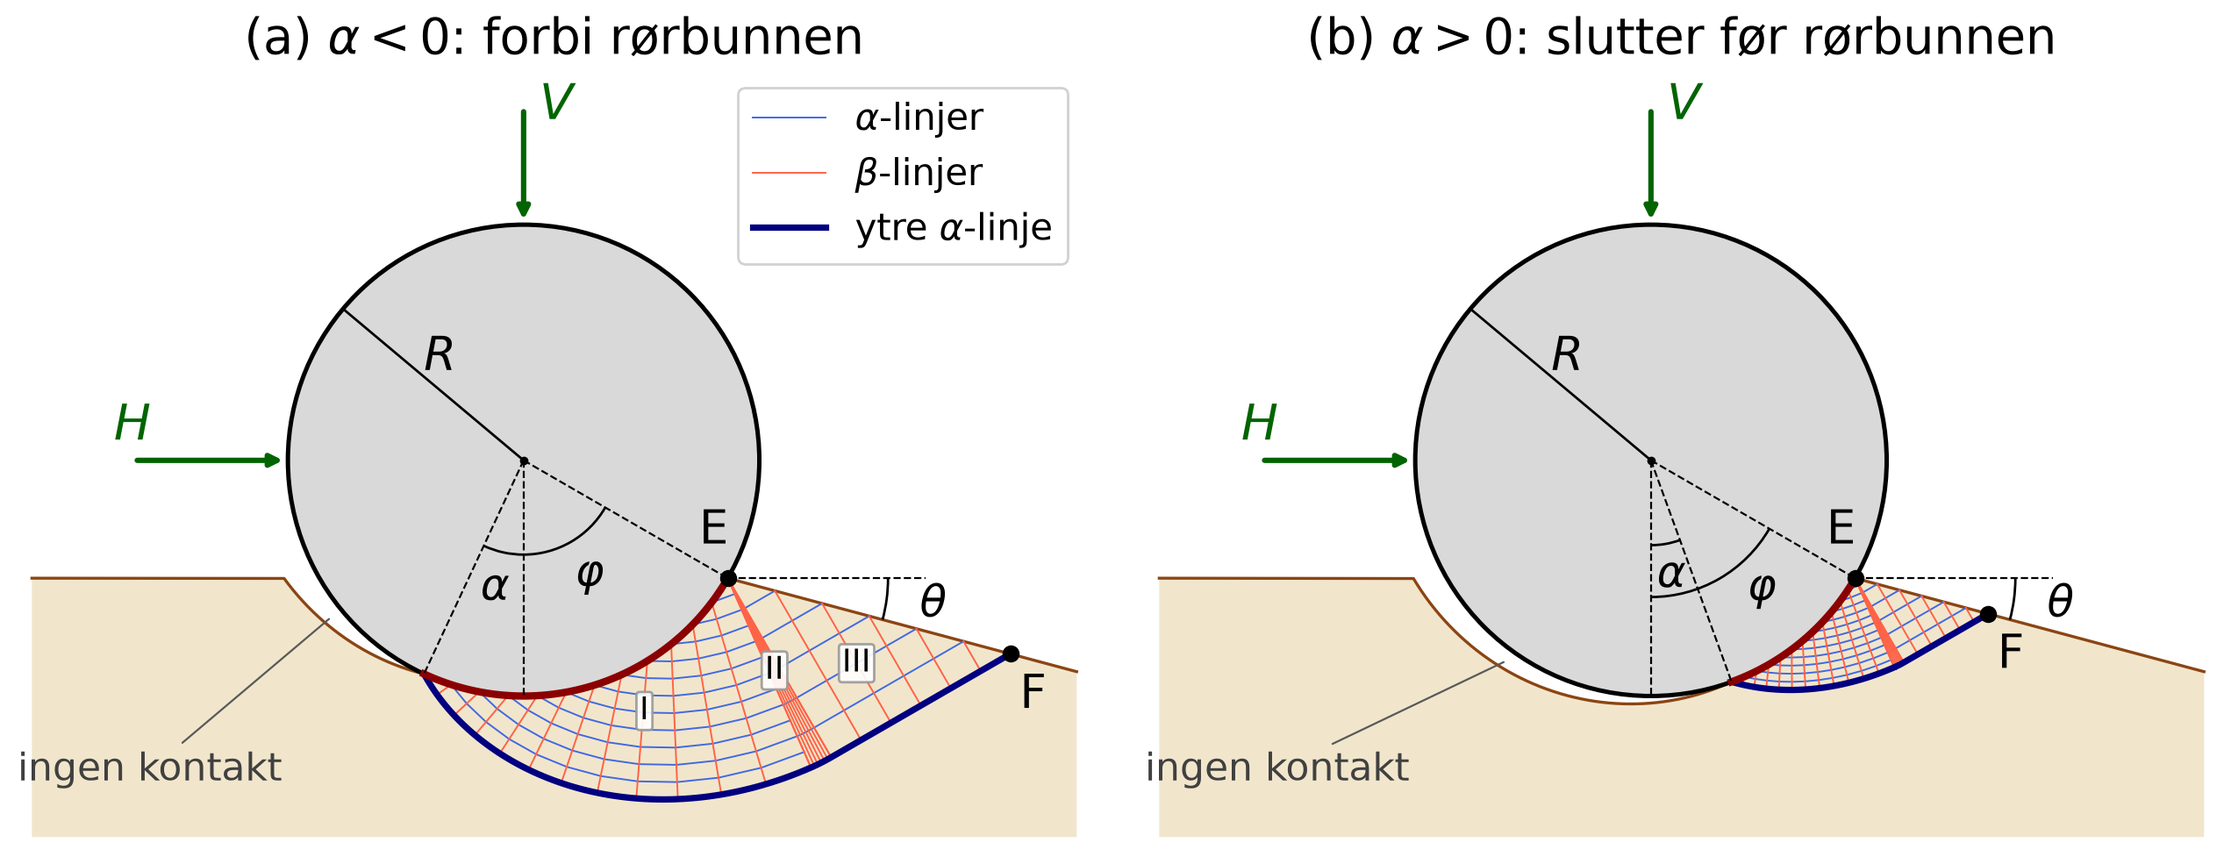
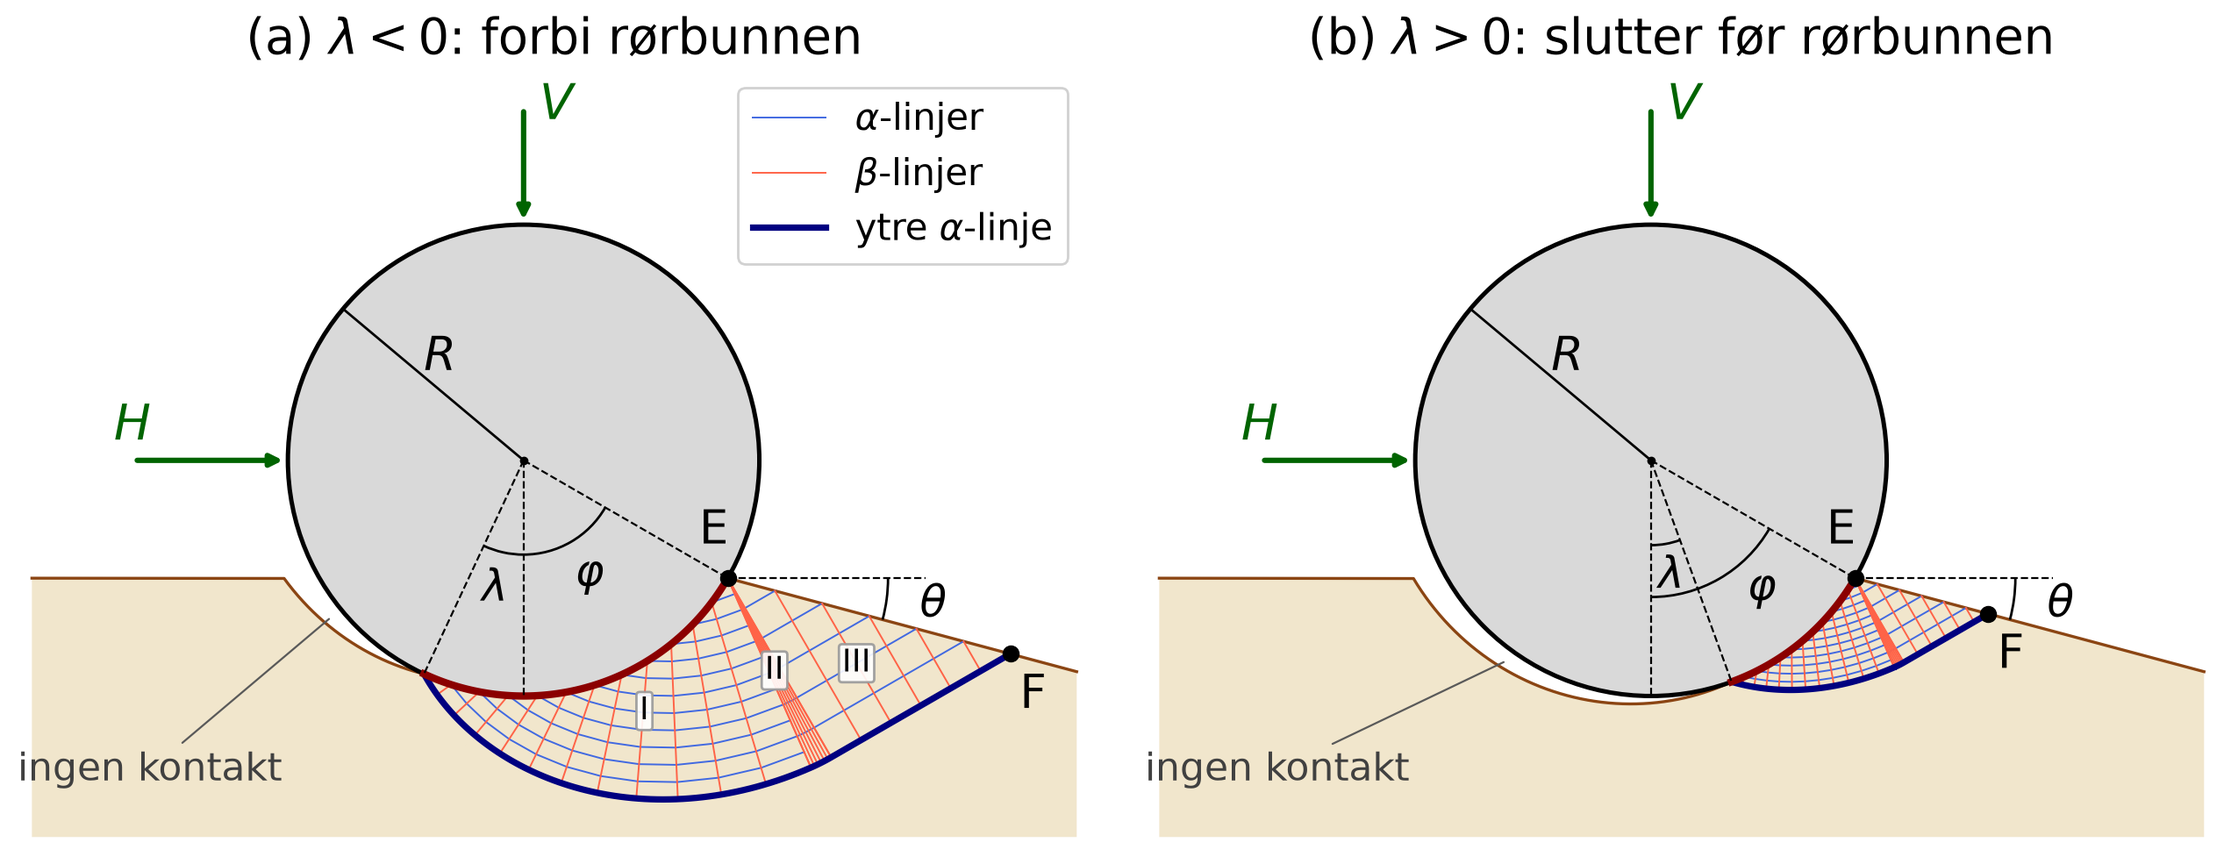
Rename the contact start angle to lambda and the direction to delta
alpha (start of the contact) and beta (direction of motion) clashed with
the alpha- and beta-lines in pipe_formulas.  psi is the principal stress
direction, so the contact now runs from lambda to phi, and the pipe moves
at delta below the horizontal (beta in the code).

Claude-Session: https://claude.ai/code/session_01Kw9TXmZH48LHARAYP96LAX

diff --git a/pipe_formulas.tex b/pipe_formulas.tex
@@ -185,40 +185,39 @@ $\theta = 30^\circ$), og bare \eqref{eq:H}--\eqref{eq:V} er i bruk.  For ru
 rør gjelder formlene alltid når $\theta \le \omega$, ellers for
 $P/R \le 1 - \sin(\theta - \omega)$.
 
-\subsection*{Kontakt fra $\alpha$ til $\varphi$}
+\subsection*{Kontakt fra $\lambda$ til $\varphi$}
 
 \begin{figure}[htb]
   \centering
   \includegraphics[width=\textwidth]{pipe_contact.png}
-  \caption{Sideveis skyv med kontakt fra $\alpha$ til $\varphi$, ved
-    $P/R = 0{,}5$, $r = 0{,}3$ og $\theta = 15^\circ$.  $\alpha$ og
+  \caption{Sideveis skyv med kontakt fra $\lambda$ til $\varphi$, ved
+    $P/R = 0{,}5$, $r = 0{,}3$ og $\theta = 15^\circ$.  $\lambda$ og
     $\varphi$ måles fra loddlinja gjennom rørbunnen og er positive mot
-    kontaktkanten E.  (a) $\alpha = -25^\circ$: kontakten går forbi
-    rørbunnen.  (b) $\alpha = 20^\circ$: kontakten slutter før rørbunnen,
+    kontaktkanten E.  (a) $\lambda = -25^\circ$: kontakten går forbi
+    rørbunnen.  (b) $\lambda = 20^\circ$: kontakten slutter før rørbunnen,
     med sone~I--III som i (a).  Kontaktbuen er tegnet med tykk rød strek, og
     nettet er fra \texttt{OneSidedDiskSolver} med
-    \texttt{phi\_start} $= \alpha$.  Den tykke blå linja er den ytre
+    \texttt{phi\_start} $= \lambda$.  Den tykke blå linja er den ytre
     $\alpha$-linja beregnet med formlene i avsnitt~\ref{sec:extent}.  Den
-    starter i $t = \alpha$ og møter overflaten i F, i avstanden $L$ fra E
-    \eqref{eq:Lalpha}.  Figuren lages av \texttt{plot\_pipe\_contact.py}.}
+    starter i $t = \lambda$ og møter overflaten i F, i avstanden $L$ fra E
+    \eqref{eq:Llambda}.  Figuren lages av \texttt{plot\_pipe\_contact.py}.}
   \label{fig:contact}
 \end{figure}
 
 Formlene over integrerer fra rørbunnen ($t = 0$) til kontaktkanten.  Beveger
 røret seg også nedover, går kontakten forbi rørbunnen og inn på baksiden.
 Løsner jorda tidligere, slutter kontakten før rørbunnen.  Kontaktbuen er da
-$\alpha \le t \le \varphi$, der $\alpha < 0$ ligger bak rørbunnen
-(figur~\ref{fig:contact}).  ($\alpha$ er her en vinkel og har ikke noe med
-$\alpha$-linjene å gjøre.)  Den ytre
-$\alpha$-linja starter i $t = \alpha$, og ellers er feltet det samme:
-$\sigma_n(t)$ i \eqref{eq:contact} avhenger bare av $t$, ikke av $\alpha$
+$\lambda \le t \le \varphi$, der $\lambda < 0$ ligger bak rørbunnen
+(figur~\ref{fig:contact}).  Den ytre
+$\alpha$-linja starter i $t = \lambda$, og ellers er feltet det samme:
+$\sigma_n(t)$ i \eqref{eq:contact} avhenger bare av $t$, ikke av $\lambda$
 eller $\varphi$.  Kreftene er derfor
 \begin{align}
-  H &= R\int_\alpha^{\varphi} \bigl(\sigma_n \sin t + \tau\cos t\bigr)\,dt
-     = H(\varphi) - H(\alpha) ,
-  \label{eq:HValpha}\\
-  V &= R\int_\alpha^{\varphi} \bigl(\sigma_n \cos t - \tau\sin t\bigr)\,dt
-     = V(\varphi) - V(\alpha) ,
+  H &= R\int_\lambda^{\varphi} \bigl(\sigma_n \sin t + \tau\cos t\bigr)\,dt
+     = H(\varphi) - H(\lambda) ,
+  \label{eq:HVlambda}\\
+  V &= R\int_\lambda^{\varphi} \bigl(\sigma_n \cos t - \tau\sin t\bigr)\,dt
+     = V(\varphi) - V(\lambda) ,
 \end{align}
 der $H(x)$ og $V(x)$ er formlene for kontakt fra 0 til $x$:
 \eqref{eq:H}--\eqref{eq:V}, eller \eqref{eq:Hpar}--\eqref{eq:Vpar} når
@@ -229,38 +228,38 @@ Utskrevet, med $A = 1 + \pi - 2\omega - 2\theta + \cos 2\omega$, slik at
 $\sigma_n = c\,(A - 2t)$ på den indre buen, blir det uten parallellsone,
 $\varphi \le t_0$,
 \begin{align}
-  \frac{H}{cR} &= A(\cos\alpha - \cos\varphi) + 2\varphi\cos\varphi - 2\alpha\cos\alpha
-                  - (2 - \sin 2\omega)(\sin\varphi - \sin\alpha) ,
-  \label{eq:Halpha}\\[4pt]
-  \frac{V}{cR} &= (A - 2\varphi)\sin\varphi - (A - 2\alpha)\sin\alpha
-                  + (2 - \sin 2\omega)(\cos\alpha - \cos\varphi) ,
-  \label{eq:Valpha}
+  \frac{H}{cR} &= A(\cos\lambda - \cos\varphi) + 2\varphi\cos\varphi - 2\lambda\cos\lambda
+                  - (2 - \sin 2\omega)(\sin\varphi - \sin\lambda) ,
+  \label{eq:Hlambda}\\[4pt]
+  \frac{V}{cR} &= (A - 2\varphi)\sin\varphi - (A - 2\lambda)\sin\lambda
+                  + (2 - \sin 2\omega)(\cos\lambda - \cos\varphi) ,
+  \label{eq:Vlambda}
 \end{align}
 og med parallellsone, $\varphi > t_0$,
 \begin{align}
-  \frac{H}{cR} &= (A - 2\alpha)\cos\alpha + (2 - \sin 2\omega)\sin\alpha \nonumber\\
+  \frac{H}{cR} &= (A - 2\lambda)\cos\lambda + (2 - \sin 2\omega)\sin\lambda \nonumber\\
                &\quad + 2(\sin\omega - \cos\omega)(\sin\theta + \cos\theta)
                   - 2\cos\theta\cos(\varphi+\theta) ,
-  \label{eq:Hparalpha}\\[4pt]
-  \frac{V}{cR} &= (2 - \sin 2\omega)\cos\alpha - (A - 2\alpha)\sin\alpha \nonumber\\
+  \label{eq:Hparlambda}\\[4pt]
+  \frac{V}{cR} &= (2 - \sin 2\omega)\cos\lambda - (A - 2\lambda)\sin\lambda \nonumber\\
                &\quad + 2(\cos\omega - \sin\omega)(\cos\theta - \sin\theta)
                   - 2\sin\theta\cos(\varphi+\theta) .
-  \label{eq:Vparalpha}
+  \label{eq:Vparlambda}
 \end{align}
-Med $\alpha = 0$ gir de \eqref{eq:H}--\eqref{eq:V} og
+Med $\lambda = 0$ gir de \eqref{eq:H}--\eqref{eq:V} og
 \eqref{eq:Hpar}--\eqref{eq:Vpar}.
 
-Formlene gjelder for $-\varphi \le \alpha < \min(\varphi, t_0)$ og, som før,
+Formlene gjelder for $-\varphi \le \lambda < \min(\varphi, t_0)$ og, som før,
 $\varphi \le \pi/2 + \omega - \theta$:
 \begin{itemize}
-  \item $\alpha \ge -\varphi$ fordi kontakten ikke kan gå over overflaten
+  \item $\lambda \ge -\varphi$ fordi kontakten ikke kan gå over overflaten
         bak røret, når den ligger på kontaktnivået;
-  \item $\alpha < t_0$ fordi kontakten må begynne før parallellsonen.  Ellers
+  \item $\lambda < t_0$ fordi kontakten må begynne før parallellsonen.  Ellers
         er det ingen vifte, og koden gir feilmelding.
 \end{itemize}
 
 Kontroll: et glatt rør med $\theta = 0$ og kontakt på begge sider,
-$\alpha = -\varphi$, gir
+$\lambda = -\varphi$, gir
 \begin{equation}
   V = 2(2 + \pi)\,cR\sin\varphi , \qquad
   H = -4cR\,(\sin\varphi - \varphi\cos\varphi) .
@@ -348,23 +347,23 @@ den.  Målt fra E langs overflaten blir
 Ved $\varphi = t_0$ gir \eqref{eq:Lpar} det samme som \eqref{eq:L}.  Her
 øker $L$ med $\theta$, fordi parallellsonen begynner tidligere.
 
-\subsection*{Kontakt fra $\alpha$ til $\varphi$, (a)}
+\subsection*{Kontakt fra $\lambda$ til $\varphi$, (a)}
 
-Den ytre $\alpha$-linja starter i $t = \alpha$ i stedet for i rørbunnen.
-Argumentet over er det samme, men med buen fra $\alpha$: $\beta$-linja fra E
-har lengden $\ell = R(\varphi - \alpha)\sin\kappa$, og
+Den ytre $\alpha$-linja starter i $t = \lambda$ i stedet for i rørbunnen.
+Argumentet over er det samme, men med buen fra $\lambda$: $\beta$-linja fra E
+har lengden $\ell = R(\varphi - \lambda)\sin\kappa$, og
 \begin{align}
-  \frac{L}{R} &= (\varphi - \alpha)\sqrt{1 - r} ,
+  \frac{L}{R} &= (\varphi - \lambda)\sqrt{1 - r} ,
   && \varphi \le t_0 ,
-  \label{eq:Lalpha}\\[4pt]
-  \frac{L}{R} &= (t_0 - \alpha)\sqrt{1 - r} + \sqrt{1 + r}
+  \label{eq:Llambda}\\[4pt]
+  \frac{L}{R} &= (t_0 - \lambda)\sqrt{1 - r} + \sqrt{1 + r}
                  - \cos(\varphi + \theta) - \sin(\varphi + \theta) ,
   && \varphi > t_0 .
-  \label{eq:Lparalpha}
+  \label{eq:Lparlambda}
 \end{align}
-Parallellsonen er den samme; bare den indre delen av buen, fra $\alpha$ til
+Parallellsonen er den samme; bare den indre delen av buen, fra $\lambda$ til
 $t_0$, endres.  For glatt rør er $L$ fortsatt like lang som kontaktbuen,
-$R(\varphi - \alpha)$.
+$R(\varphi - \lambda)$.
 
 \subsection*{Horisontal avstand}
 
@@ -470,37 +469,37 @@ $t = t_0\bigl(1 - (s - s_0)/(L - s_0)\bigr)$ og $L$ fra \eqref{eq:Lpar}.
 Ved $t_0$ er $\sin(t_0 + \theta) - \cos(t_0 + \theta) = \sqrt{1 - r}$, så
 farten er kontinuerlig.
 
-\subsection*{Kontakt fra $\alpha$ til $\varphi$, (a)}
+\subsection*{Kontakt fra $\lambda$ til $\varphi$, (a)}
 
-Med kontakt fra $\alpha$ svarer F til rørpunktet $t = \alpha$ i stedet for
+Med kontakt fra $\lambda$ svarer F til rørpunktet $t = \lambda$ i stedet for
 rørbunnen.  Uten parallellsone er
 \begin{equation}
   v_n(s) = v_t(s) = \frac{w(t)}{\sqrt{1 - r}} ,
-  \qquad t = \varphi - (\varphi - \alpha)\,\frac{s}{L} ,
+  \qquad t = \varphi - (\varphi - \lambda)\,\frac{s}{L} ,
   \qquad 0 \le s \le L ,
-  \label{eq:valpha}
+  \label{eq:vlambda}
 \end{equation}
-med $L$ fra \eqref{eq:Lalpha}.  Med parallellsone gjelder
+med $L$ fra \eqref{eq:Llambda}.  Med parallellsone gjelder
 \eqref{eq:vpar}--\eqref{eq:spar} uendret for $0 \le s \le s_0$.  Lenger ut
-gjelder \eqref{eq:valpha} med $t = t_0 - (t_0 - \alpha)(s - s_0)/(L - s_0)$
-og $L$ fra \eqref{eq:Lparalpha}.  Volumet er
-$\int_0^L v_n\,ds = R\int_\alpha^\varphi w\,dt$.
+gjelder \eqref{eq:vlambda} med $t = t_0 - (t_0 - \lambda)(s - s_0)/(L - s_0)$
+og $L$ fra \eqref{eq:Lparlambda}.  Volumet er
+$\int_0^L v_n\,ds = R\int_\lambda^\varphi w\,dt$.
 
-Kontakt bak rørbunnen ($\alpha < 0$) krever at røret også beveger seg
+Kontakt bak rørbunnen ($\lambda < 0$) krever at røret også beveger seg
 nedover.  Ved rent sideveis skyv er $w = v_0\sin t < 0$ for $t < 0$, og der
-flytter røret seg bort fra jorda.  Beveger røret seg med vinkelen $\beta$
+flytter røret seg bort fra jorda.  Beveger røret seg med vinkelen $\delta$
 under horisontalen, er
 \begin{equation}
-  w(t) = v_0 \sin(t + \beta) ,
+  w(t) = v_0 \sin(t + \delta) ,
 \end{equation}
-som gir (a) for $\beta = 0$ og (b) for $\beta = \pi/2$.  Da er $w \ge 0$ for
-$t \ge -\beta$, så kontakten krever $\alpha \ge -\beta$.
+som gir (a) for $\delta = 0$ og (b) for $\delta = \pi/2$.  Da er $w \ge 0$ for
+$t \ge -\delta$, så kontakten krever $\lambda \ge -\delta$.
 \begin{itemize}
-  \item Med $\alpha = -\beta$ løsner jorda akkurat i det bakre
+  \item Med $\lambda = -\delta$ løsner jorda akkurat i det bakre
         kontaktpunktet, og farten avtar til null ved F, som for
-        $\alpha = 0$ i (a).  \texttt{PipeLateral} bruker $\alpha = -\beta$
+        $\lambda = 0$ i (a).  \texttt{PipeLateral} bruker $\lambda = -\delta$
         når kontakten bak røret rekker så langt.
-  \item Med $\alpha > -\beta$ er farten $v_0\sin(\alpha + \beta)/\sqrt{1 - r}$
+  \item Med $\lambda > -\delta$ er farten $v_0\sin(\lambda + \delta)/\sqrt{1 - r}$
         ved F.  Den ytre $\alpha$-linja er da et hastighetssprang, som i (b).
 \end{itemize}
 
@@ -555,7 +554,7 @@ Formlene er sammenlignet med numerisk integrasjon av kontaktspenningene i
 koden:
 \begin{itemize}
   \item \texttt{OneSidedDiskSolver} med \texttt{phi\_start=0} (eller
-        \texttt{phi\_start} $= \alpha$ for kontakt fra $\alpha$),
+        \texttt{phi\_start} $= \lambda$ for kontakt fra $\lambda$),
         \texttt{omega} $= \pm\omega$ og \texttt{alpha} $= \theta$;
   \item for $\theta = 0$ også \texttt{forces\_on\_half\_disk()} og
         \texttt{collapse\_load\_Q()} i \texttt{DiskPrandtlSolver}
@@ -579,20 +578,22 @@ antall noder, fra $2\cdot10^{-2}v_0$ med \texttt{n\_disk=30} til
 $8\cdot10^{-5}v_0$ med \texttt{n\_disk=480}, for $P/R = 0{,}04$--$1$,
 $r = 0$--$0{,}9$ og $\theta = 0$--$30^\circ$, med og uten parallellsone.
 
-Kontakt fra $\alpha$ er sjekket på samme måte, for $\alpha$ fra $-60^\circ$
-til $45^\circ$ og $\alpha = -\varphi$, innenfor
-$-\varphi \le \alpha < \min(\varphi, t_0)$.  $H$ og $V$ avviker under
+Kontakt fra $\lambda$ er sjekket på samme måte, for $\lambda$ fra $-60^\circ$
+til $45^\circ$ og $\lambda = -\varphi$, innenfor
+$-\varphi \le \lambda < \min(\varphi, t_0)$.  $H$ og $V$ avviker under
 $3\cdot10^{-8}\,cR$.  For $L$ minker avviket fra $2\cdot10^{-2}R$ med
 \texttt{n\_disk=30} til $1\cdot10^{-5}R$ med \texttt{n\_disk=480}.  For
-overflatehastigheten, med $\beta = -\alpha$, $0$ og $\pi/2$, minker det fra
+overflatehastigheten, med $\delta = -\lambda$, $0$ og $\pi/2$, minker det fra
 $1\cdot10^{-1}v_0$ til $5\cdot10^{-4}v_0$.
 
 Sammenhengen med koden:
 \begin{itemize}
   \item $P = pD$, der \texttt{p} er nedtrykkingsforholdet i
         \texttt{DiskFoundationBoundary};
-  \item $\varphi$ er \texttt{theta\_max}, $\alpha$ er \texttt{phi\_start},
+  \item $\varphi$ er \texttt{theta\_max}, $\lambda$ er \texttt{phi\_start},
         og $\theta$ er \texttt{alpha} i \texttt{OneSidedDiskSolver};
+  \item $\delta$ er \texttt{beta} i \texttt{InclinedDiskVelocityField} og
+        \texttt{PipeLateral};
   \item $+\omega$ gjelder (a), som er standardretningen, og $-\omega$
         gjelder (b), med \texttt{vertical\_shear=True}.
 \end{itemize}

diff --git a/plot_pipe_contact.py b/plot_pipe_contact.py
@@ -1,13 +1,13 @@
-"""The general lateral push in pipe_formulas.tex: contact from alpha to phi
+"""The general lateral push in pipe_formulas.tex: contact from lambda to phi
 (plots/pipe_contact.png).
 
-(a) alpha < 0: the contact goes past the invert onto the back of the pipe.
-(b) alpha > 0: the contact ends before the invert.
+(a) lambda < 0: the contact goes past the invert onto the back of the pipe.
+(b) lambda > 0: the contact ends before the invert.
 
-The nets are those of OneSidedDiskSolver(phi_start=alpha) with the interface
+The nets are those of OneSidedDiskSolver(phi_start=lambda) with the interface
 shear of a horizontal push.  The thick line is the outer alpha-line from the
-closed forms: it starts at t = alpha and ends at F, L = R(phi - alpha)sqrt(1 - r)
-from the contact edge E.
+closed forms: it starts at t = lambda and ends at F,
+L = R(phi - lambda)sqrt(1 - r) from the contact edge E.
 """
 
 from pathlib import Path
@@ -26,7 +26,7 @@ PLOTS = Path(__file__).parent / "plots"
 PLOTS.mkdir(exist_ok=True)
 
 D, P_OVER_D, ROUGHNESS, THETA = 1.0, 0.25, 0.3, np.radians(15.0)
-ALPHAS = (np.radians(-25.0), np.radians(20.0))
+LAMBDAS = (np.radians(-25.0), np.radians(20.0))
 GAP = 0.06  # radial gap between the pipe and the soil at t = -phi
 SOIL, PIPE, CONTACT, LOAD = "#f1e6cc", "#d9d9d9", "darkred", "darkgreen"
 ALPHA_COLOR, BETA_COLOR, OUTER = "royalblue", "tomato", "navy"
@@ -38,8 +38,8 @@ def on_pipe(s, t, gap=0.0):
     return (s.R + gap) * np.sin(t), -(s.y_c + (s.R + gap) * np.cos(t))
 
 
-def outer_alpha_line(s, a: float) -> np.ndarray:
-    """Closed form, screen coordinates: Region I from t = a, the fan about E,
+def outer_alpha_line(s, lam: float) -> np.ndarray:
+    """Closed form, screen coordinates: Region I from t = lam, the fan about E,
     then Region III to F (no parallel zone)."""
     R, phi, kappa = s.R, s.theta_max, 0.25 * np.pi - s.omega_signed
 
@@ -47,10 +47,10 @@ def outer_alpha_line(s, a: float) -> np.ndarray:
         return np.array([np.sin(b), np.cos(b)])  # (x, y down)
 
     pts = []
-    for t in np.linspace(a, phi, 80):
+    for t in np.linspace(lam, phi, 80):
         p = np.array([R * np.sin(t), s.y_c + R * np.cos(t)])
-        pts.append(p + R * (t - a) * np.sin(kappa) * direction(t - kappa))
-    E, ell = np.array([s.B_s, 0.0]), R * (phi - a) * np.sin(kappa)
+        pts.append(p + R * (t - lam) * np.sin(kappa) * direction(t - kappa))
+    E, ell = np.array([s.B_s, 0.0]), R * (phi - lam) * np.sin(kappa)
     for b in np.linspace(phi - kappa, 0.25 * np.pi - THETA, 40):
         pts.append(E + ell * direction(b))
     pts.append(E + np.sqrt(2.0) * ell * np.array([np.cos(THETA), np.sin(THETA)]))
@@ -82,10 +82,10 @@ def angle_arc(
     )
 
 
-def solve(a: float) -> OneSidedDiskSolver:
+def solve(lam: float) -> OneSidedDiskSolver:
     disk = DiskFoundationBoundary(cu=1.0, D=D, p=P_OVER_D, r=ROUGHNESS)
     s = OneSidedDiskSolver(
-        disk, a, 0.5 * np.arcsin(ROUGHNESS), alpha=THETA, n_fan=6, n_disk=12
+        disk, lam, 0.5 * np.arcsin(ROUGHNESS), alpha=THETA, n_fan=6, n_disk=12
     )
     s.solve()
     assert s.complete() and not s.use_parallel_zone
@@ -99,14 +99,14 @@ def net_extent(s) -> tuple[float, float]:
 
 def panel(ax, s, title: str, first: bool, x_l: float, x_r: float, y_bot: float):
     """One panel; the first one also gets the legend and the region labels."""
-    a, R, B, phi, yc = s.phi_start, s.R, s.B_s, s.theta_max, -s.y_c
+    lam, R, B, phi, yc = s.phi_start, s.R, s.B_s, s.theta_max, -s.y_c
 
-    # Soil: flat behind, a gap that closes at t = a, the contact, the slope.
-    t_gap = np.linspace(-phi - 0.3, a, 300)
-    gx, gy = on_pipe(s, t_gap, GAP * (a - t_gap) / (a + phi))
+    # Soil: flat behind, a gap that closes at t = lam, the contact, the slope.
+    t_gap = np.linspace(-phi - 0.3, lam, 300)
+    gx, gy = on_pipe(s, t_gap, GAP * (lam - t_gap) / (lam + phi))
     below = gy <= 0.0  # the part of the gap line under the flat surface
     t_gap, gx, gy = t_gap[below], gx[below], gy[below]
-    cx, cy = on_pipe(s, np.linspace(a, phi, 60))
+    cx, cy = on_pipe(s, np.linspace(lam, phi, 60))
     y_r = -(x_r - B) * np.tan(THETA)
     xs = np.r_[x_l, gx, cx, x_r, x_r, x_l]
     ys = np.r_[0.0, gy, cy, y_r, y_bot, y_bot]
@@ -131,23 +131,23 @@ def panel(ax, s, title: str, first: bool, x_l: float, x_r: float, y_bot: float):
                 zorder=3,
                 label=label if k == 0 else None,
             )
-    o = outer_alpha_line(s, a)
+    o = outer_alpha_line(s, lam)
     ax.plot(
         o[:, 0], o[:, 1], color=OUTER, lw=2.6, zorder=4, label=r"ytre $\alpha$-linje"
     )
     ax.add_patch(mpatches.Circle((0, yc), R, fc=PIPE, ec="black", lw=1.8, zorder=5))
-    ax.plot(*on_pipe(s, np.linspace(a, phi, 100)), color=CONTACT, lw=3.0, zorder=6)
+    ax.plot(*on_pipe(s, np.linspace(lam, phi, 100)), color=CONTACT, lw=3.0, zorder=6)
 
-    # Angles from the invert: phi to E, alpha to the start of the contact.
+    # Angles from the invert: phi to E, lambda to the start of the contact.
     ax.plot(0.0, yc, "k.", ms=5, zorder=7)
-    for t in (0.0, a, phi):
+    for t in (0.0, lam, phi):
         ax.plot(*np.array([[0.0, yc], on_pipe(s, t)]).T, "k--", lw=0.8, zorder=7)
-    if a < 0.0:
+    if lam < 0.0:
         angle_arc(ax, s, phi, 0.40 * R, r"$\varphi$", 0.56 * R)
-        angle_arc(ax, s, a, 0.40 * R, r"$\alpha$", 0.56 * R)
+        angle_arc(ax, s, lam, 0.40 * R, r"$\lambda$", 0.56 * R)
     else:
         angle_arc(ax, s, phi, 0.58 * R, r"$\varphi$", 0.72 * R, at=0.68)
-        angle_arc(ax, s, a, 0.36 * R, r"$\alpha$", 0.50 * R)
+        angle_arc(ax, s, lam, 0.36 * R, r"$\lambda$", 0.50 * R)
     ang = np.radians(140.0)
     ax.plot([0, R * np.cos(ang)], [yc, yc + R * np.sin(ang)], "k-", lw=1.0, zorder=7)
     ax.text(
@@ -223,7 +223,7 @@ def panel(ax, s, title: str, first: bool, x_l: float, x_r: float, y_bot: float):
     k = len(t_gap) // 3
     ax.annotate(
         "ingen kontakt",
-        xy=on_pipe(s, t_gap[k], 0.5 * GAP * (a - t_gap[k]) / (a + phi)),
+        xy=on_pipe(s, t_gap[k], 0.5 * GAP * (lam - t_gap[k]) / (lam + phi)),
         xytext=(x_l + 0.25, y_bot + 0.12),
         fontsize=FS - 3,
         color="0.25",
@@ -239,12 +239,12 @@ def panel(ax, s, title: str, first: bool, x_l: float, x_r: float, y_bot: float):
     ax.set_aspect("equal")
     ax.axis("off")
     print(
-        f"{title[:3]} L/R code {s.L / R:.4f}, formula {(phi - a) * np.sqrt(1 - ROUGHNESS):.4f}"
+        f"{title[:3]} L/R code {s.L / R:.4f}, formula {(phi - lam) * np.sqrt(1 - ROUGHNESS):.4f}"
     )
 
 
 # Same scale in both panels.
-nets = [solve(a) for a in ALPHAS]
+nets = [solve(lam) for lam in LAMBDAS]
 x_l = -nets[0].B_s - GAP - 0.55
 x_r = max(max(net_extent(s)[0], s.B_s + 0.5) for s in nets) + 0.14
 y_bot = -(max(net_extent(s)[1] for s in nets) + 0.08)
@@ -252,7 +252,10 @@ fig, axes = plt.subplots(1, 2, figsize=(13, 5.0))
 for ax, s, title in zip(
     axes,
     nets,
-    (r"(a) $\alpha < 0$: forbi rørbunnen", r"(b) $\alpha > 0$: slutter før rørbunnen"),
+    (
+        r"(a) $\lambda < 0$: forbi rørbunnen",
+        r"(b) $\lambda > 0$: slutter før rørbunnen",
+    ),
 ):
     panel(ax, s, title, ax is axes[0], x_l, x_r, y_bot)
 fig.tight_layout()

diff --git a/CLAUDE.md b/CLAUDE.md
@@ -4,7 +4,7 @@ This file provides guidance to Claude Code (claude.ai/code) when working with co
 
 ## Project
 
-Slip-line (method of characteristics) analysis of bearing capacity for foundations on weightless/gravity soil. Python + numpy + matplotlib. `manual.tex` is the LaTeX user manual (theory, API, examples with expected output, figures) for all solvers, the velocity fields and the pipe simulations — consult it for the derivations. When the API or results change, update `manual.tex` and `README.md` too, and rerun the manual's examples so their expected output still holds. `pipe_formulas.tex` (Norwegian) gives closed-form H, V (lateral push, front half, and a contact from α to φ = `phi_start` to `theta_max`) and Q (vertical) for the Tresca pipe with a surface falling away at θ, checked against the code's contact stresses, the length L of Region III along the surface (checked against `OneSidedDiskSolver.L`) and the surface velocity there (checked against `InclinedDiskVelocityField`); its figures come from `plot_pipe_formulas.py`, `plot_pipe_contact.py`, `plot_pipe_extent.py` and `plot_pipe_surface_velocity.py`, and it builds like the manual.
+Slip-line (method of characteristics) analysis of bearing capacity for foundations on weightless/gravity soil. Python + numpy + matplotlib. `manual.tex` is the LaTeX user manual (theory, API, examples with expected output, figures) for all solvers, the velocity fields and the pipe simulations — consult it for the derivations. When the API or results change, update `manual.tex` and `README.md` too, and rerun the manual's examples so their expected output still holds. `pipe_formulas.tex` (Norwegian) gives closed-form H, V (lateral push, front half, and a contact from λ to φ = `phi_start` to `theta_max`) and Q (vertical) for the Tresca pipe with a surface falling away at θ, checked against the code's contact stresses, the length L of Region III along the surface (checked against `OneSidedDiskSolver.L`) and the surface velocity there (checked against `InclinedDiskVelocityField`); its figures come from `plot_pipe_formulas.py`, `plot_pipe_contact.py`, `plot_pipe_extent.py` and `plot_pipe_surface_velocity.py`, and it builds like the manual.
 
 Managed with `uv` (Python 3.13; numpy and matplotlib declared in `pyproject.toml`). There is no ruff config (defaults) and no pytest suite yet.
 
